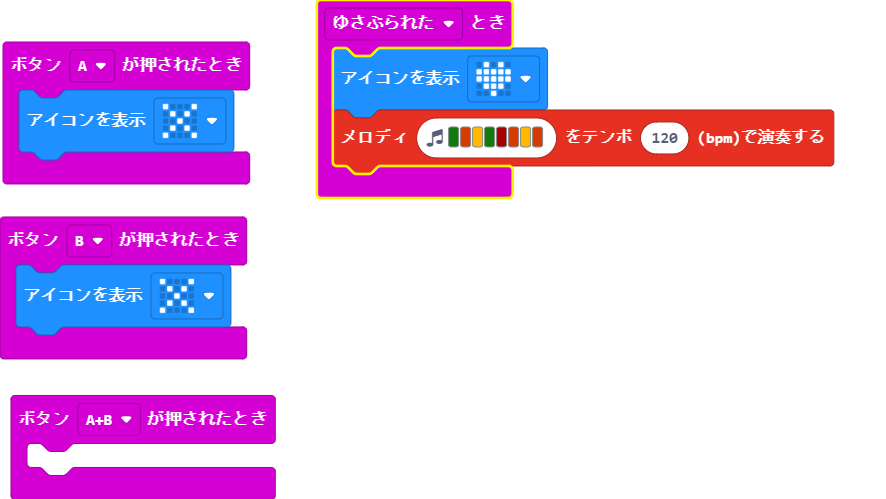
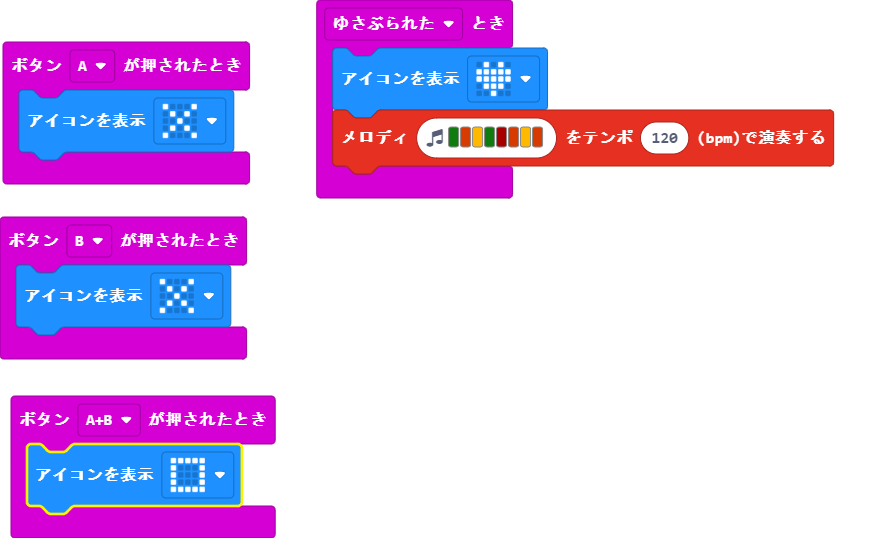
更新 main.blocks, main.ts

Changed region(s): [[0.0, 0.0601, 0.3352, 0.9619], [0.3352, 0.0, 0.9447, 0.4208]]

diff --git a/main.ts b/main.ts
@@ -6,7 +6,7 @@ input.onGesture(Gesture.Shake, function () {
     music.playMelody("G B A G C5 B A B ", 120)
 })
 input.onButtonPressed(Button.AB, function () {
-	
+    basic.showIcon(IconNames.Square)
 })
 input.onButtonPressed(Button.B, function () {
     basic.showIcon(IconNames.No)
